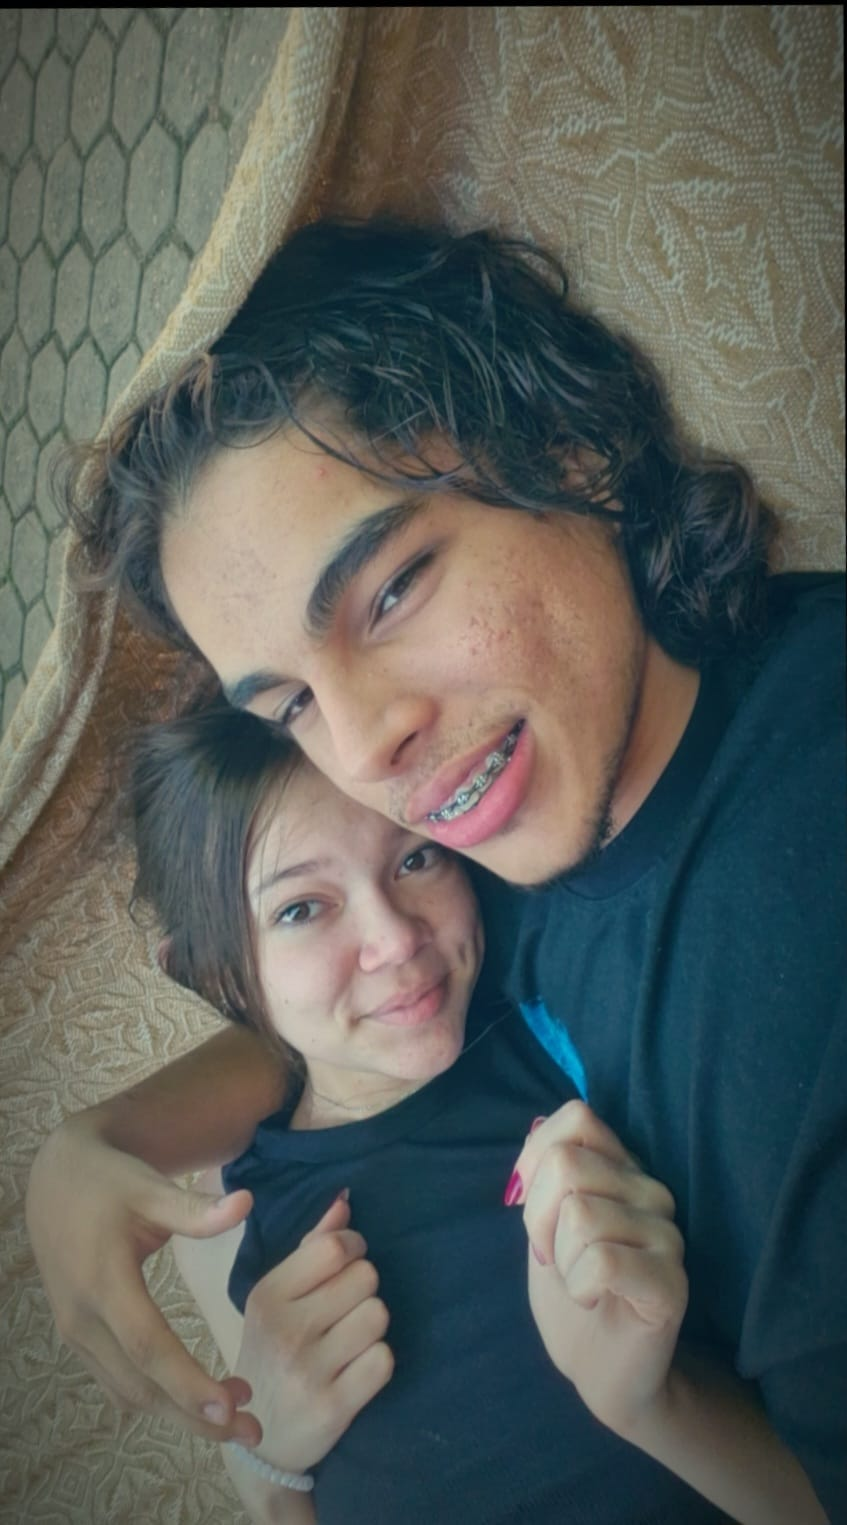
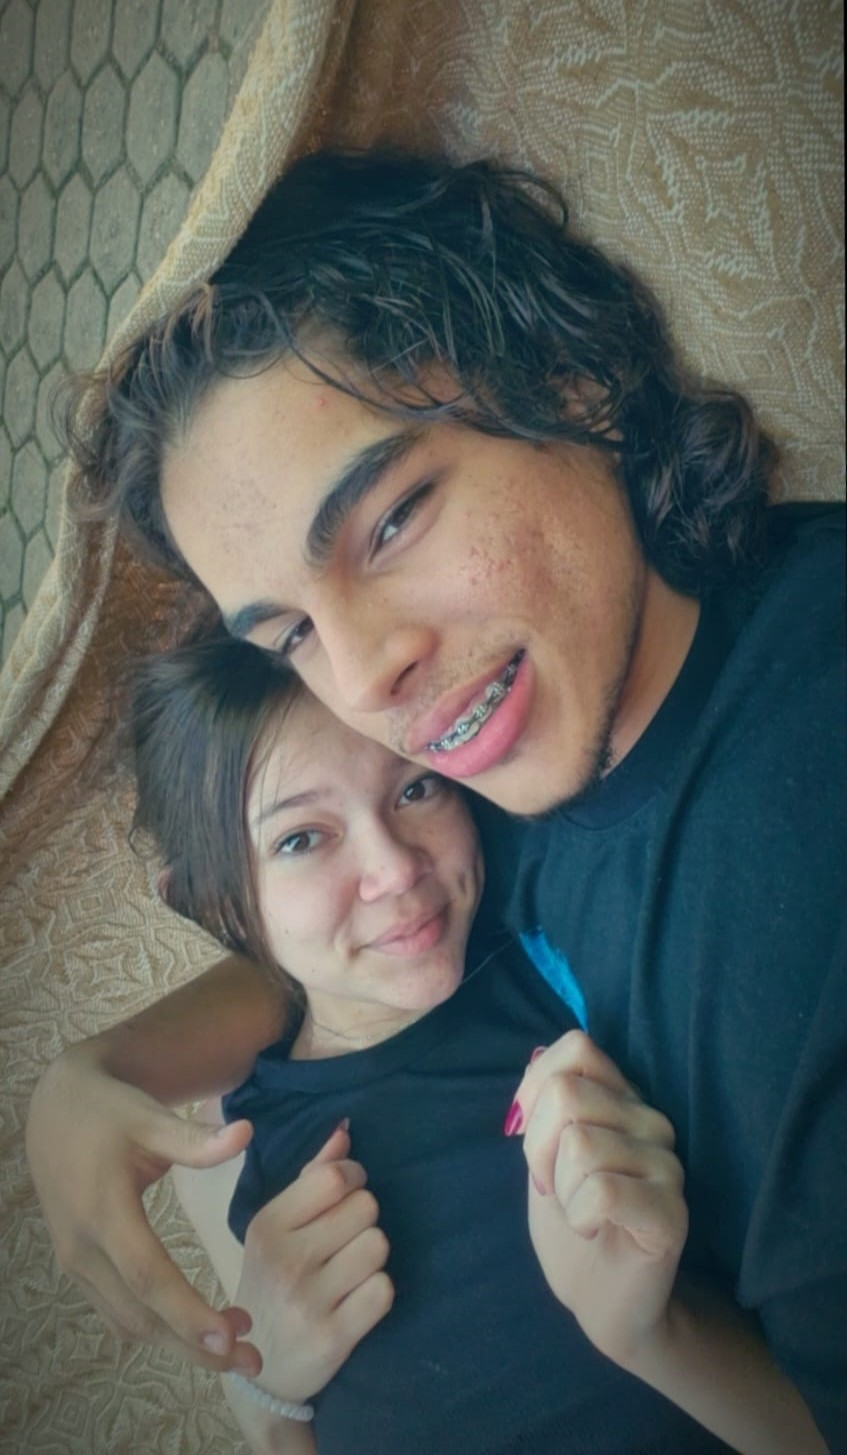
Ultima atualização 11/06

diff --git a/LoveLetter/page1.html b/LoveLetter/page1.html
@@ -29,6 +29,8 @@
                     <p>Este site é uma pequena demonstração do meu amor por você,</p>
                     <p>Até porque não é possível descrever todo esse sentimento.</p>
                     <p>Saiba que foi feito com muito carinho para o amor da minha vida.</p>
+                    <p>Muito obrigada por estar comigo em todos os momentos.</p>
+                    <p>Eu sempre vou estar aqui ao seu lado.</p>
                     <p>Eu te amo muito!!!</p>
                 </div>
             </div>

diff --git a/DoYouLoveMe/page1.html b/DoYouLoveMe/page1.html
@@ -17,7 +17,7 @@
         <div class="divVoceMeAma">
             <div class="images">
               
-                <img class="imagem" src="../images/imgClicaAq.jpg" alt="eu e você">
+                <img class="imagem" src="../images/imgClicaAq.png" alt="eu e você">
                
             </div>
 

diff --git a/DoYouLoveMe/page1.css b/DoYouLoveMe/page1.css
@@ -12,6 +12,7 @@
     /* tira a margem do body*/
 }
 
+
 .divVoceMeAma {
     display: flex;
     justify-content: center;
@@ -101,7 +102,7 @@
 
 .btnNo {
     position: absolute;
-    transition: all 0.5s ease;
+    transition: all 0.5s ease-in-out;
     max-width: 100vw;
     max-height: 100vh;
 

diff --git a/LoveLetter/page1.css b/LoveLetter/page1.css
@@ -60,10 +60,10 @@ body{
 }
 
 .escrita{
-    margin: 20px;
+    margin: 10px;
    padding: 8px 8px;
    font-family: "satisfy";
-   line-height: 0.9;
+   line-height: 0.5;
    font-size: 18px;
 }
 
